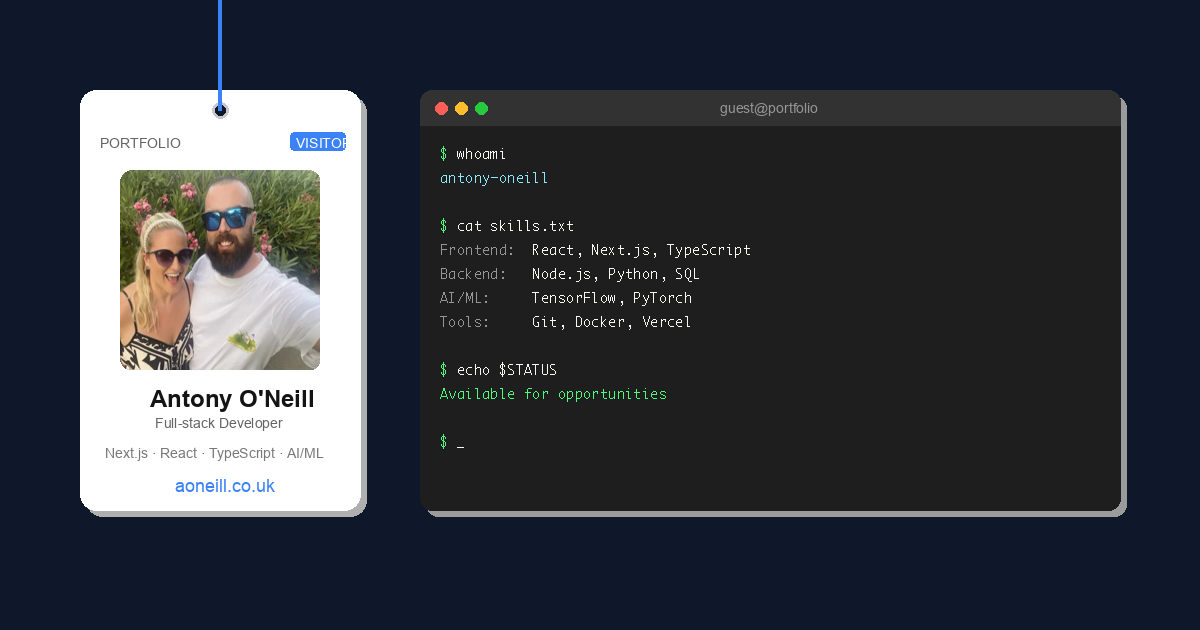
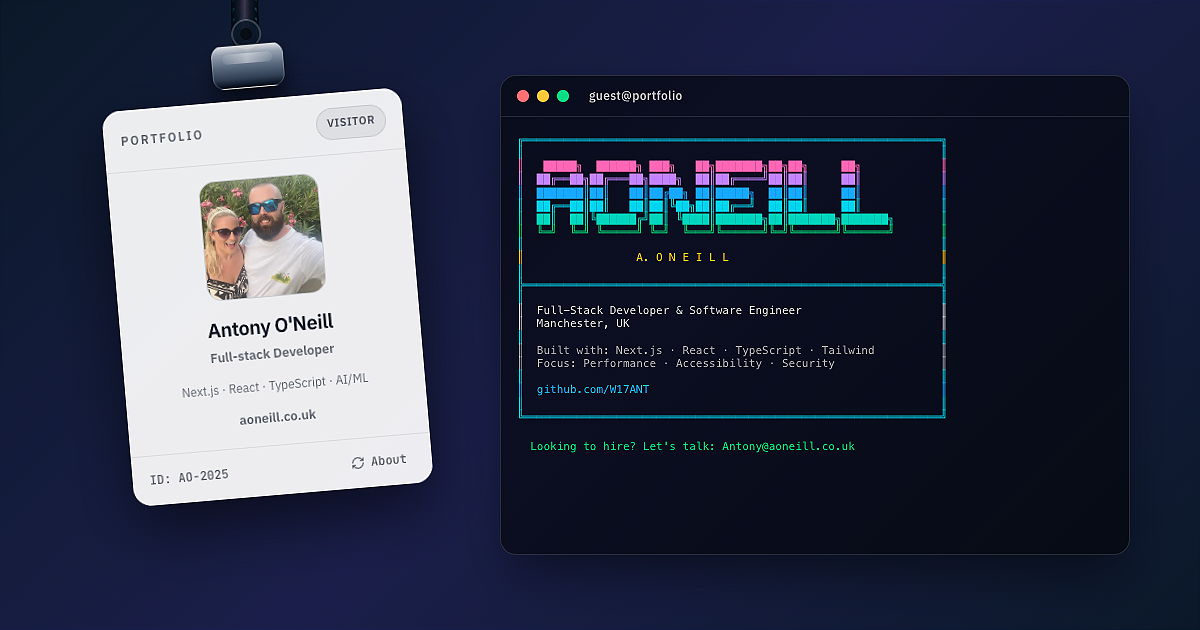
Update OG image and add rainbow colors to console easter egg

diff --git a/src/app/layout.tsx b/src/app/layout.tsx
@@ -212,43 +212,45 @@ export default async function RootLayout({
           dangerouslySetInnerHTML={{
             __html: `
               (function() {
-                var styles = {
-                  banner: 'color: #10b981; font-family: monospace; font-size: 12px; line-height: 1.4;',
-                  accent: 'color: #3b82f6; font-weight: bold;',
-                  link: 'color: #8b5cf6;',
-                  subtle: 'color: #6b7280;'
-                };
+                var font = 'font-family: monospace; font-size: 12px;';
+                var cyan = 'color: #22d3ee; ' + font;
+                var pink = 'color: #f472b6; ' + font;
+                var purple = 'color: #c084fc; ' + font;
+                var blue = 'color: #60a5fa; ' + font;
+                var teal = 'color: #2dd4bf; ' + font;
+                var green = 'color: #4ade80; ' + font;
+                var yellow = 'color: #facc15; ' + font;
+                var white = 'color: rgba(255,255,255,0.8); ' + font;
+                var dim = 'color: rgba(255,255,255,0.6); ' + font;
 
-                console.log('%c' + [
-                  '',
-                  '╔═══════════════════════════════════════════════════════════════╗',
-                  '║                                                               ║',
-                  '║   █████╗  ██████╗ ███╗   ██╗███████╗██╗██╗     ██╗            ║',
-                  '║  ██╔══██╗██╔═══██╗████╗  ██║██╔════╝██║██║     ██║            ║',
-                  '║  ███████║██║   ██║██╔██╗ ██║█████╗  ██║██║     ██║            ║',
-                  '║  ██╔══██║██║   ██║██║╚██╗██║██╔══╝  ██║██║     ██║            ║',
-                  '║  ██║  ██║╚██████╔╝██║ ╚████║███████╗██║███████╗███████╗       ║',
-                  '║  ╚═╝  ╚═╝ ╚═════╝ ╚═╝  ╚═══╝╚══════╝╚═╝╚══════╝╚══════╝       ║',
-                  '║                                                               ║',
-                  '║                 A. O N E I L L                                ║',
-                  '║                                                               ║',
-                  '╠═══════════════════════════════════════════════════════════════╣',
-                  '║                                                               ║',
-                  '║  Full-Stack Developer & Software Engineer                     ║',
-                  '║  Manchester, UK                                               ║',
-                  '║                                                               ║',
-                  '║  Built with: Next.js · React · TypeScript · Tailwind          ║',
-                  '║  Focus: Performance · Accessibility · Security                ║',
-                  '║                                                               ║',
-                  '║  github.com/W17ANT                                            ║',
-                  '║                                                               ║',
-                  '╚═══════════════════════════════════════════════════════════════╝',
-                  '',
-                  '  Looking to hire? Let\\'s talk: Antony@aoneill.co.uk',
-                  ''
-                ].join('\\n'), styles.banner);
+                console.log(
+                  '%c╔═══════════════════════════════════════════════════════════════╗\\n' +
+                  '║                                                               ║\\n' +
+                  '%c║   █████╗  ██████╗ ███╗   ██╗███████╗██╗██╗     ██╗            ║\\n' +
+                  '%c║  ██╔══██╗██╔═══██╗████╗  ██║██╔════╝██║██║     ██║            ║\\n' +
+                  '%c║  ███████║██║   ██║██╔██╗ ██║█████╗  ██║██║     ██║            ║\\n' +
+                  '%c║  ██╔══██║██║   ██║██║╚██╗██║██╔══╝  ██║██║     ██║            ║\\n' +
+                  '%c║  ██║  ██║╚██████╔╝██║ ╚████║███████╗██║███████╗███████╗       ║\\n' +
+                  '%c║  ╚═╝  ╚═╝ ╚═════╝ ╚═╝  ╚═══╝╚══════╝╚═╝╚══════╝╚══════╝       ║\\n' +
+                  '%c║                                                               ║\\n' +
+                  '%c║                 A. O N E I L L                                ║\\n' +
+                  '%c║                                                               ║\\n' +
+                  '╠═══════════════════════════════════════════════════════════════╣\\n' +
+                  '║                                                               ║\\n' +
+                  '%c║  Full-Stack Developer & Software Engineer                     ║\\n' +
+                  '║  Manchester, UK                                               ║\\n' +
+                  '%c║                                                               ║\\n' +
+                  '%c║  Built with: Next.js · React · TypeScript · Tailwind          ║\\n' +
+                  '║  Focus: Performance · Accessibility · Security                ║\\n' +
+                  '%c║                                                               ║\\n' +
+                  '%c║  github.com/W17ANT                                            ║\\n' +
+                  '%c║                                                               ║\\n' +
+                  '╚═══════════════════════════════════════════════════════════════╝\\n\\n' +
+                  '%c  Looking to hire? Let\\'s talk: Antony@aoneill.co.uk\\n',
+                  cyan, pink, purple, blue, cyan, teal, green, cyan, yellow, cyan, white, cyan, dim, cyan, blue, cyan, green
+                );
 
-                console.log('%c👋 Thanks for checking out the console!', styles.accent);
+                console.log('%c👋 Thanks for checking out the console!', 'color: #60a5fa; font-weight: bold;');
               })();
             `,
           }}

diff --git a/src/components/experiments/ElasticLanyard.tsx b/src/components/experiments/ElasticLanyard.tsx
@@ -34,6 +34,7 @@ interface Constraint {
 interface ElasticLanyardProps {
   onTensionChange?: (tension: number) => void;
   showTensionBar?: boolean;
+  showBadgeOverlay?: boolean;
 }
 
 /* ###########################################################
@@ -55,7 +56,7 @@ const config = {
    ###   3. Component                                       ###
    ########################################################### */
 
-export default function ElasticLanyard({ onTensionChange, showTensionBar = true }: ElasticLanyardProps) {
+export default function ElasticLanyard({ onTensionChange, showTensionBar = true, showBadgeOverlay = true }: ElasticLanyardProps) {
   /* ###########################################################
      ###   State & Refs                                       ###
      ########################################################### */
@@ -602,7 +603,7 @@ export default function ElasticLanyard({ onTensionChange, showTensionBar = true 
           }}
         >
           {/* Seasonal badge overlay */}
-          <BadgeOverlay />
+          {showBadgeOverlay && <BadgeOverlay />}
           {/* FRONT SIDE - Profile */}
           <div
             className="w-full rounded-[18px] overflow-hidden pointer-events-auto cursor-grab active:cursor-grabbing"
